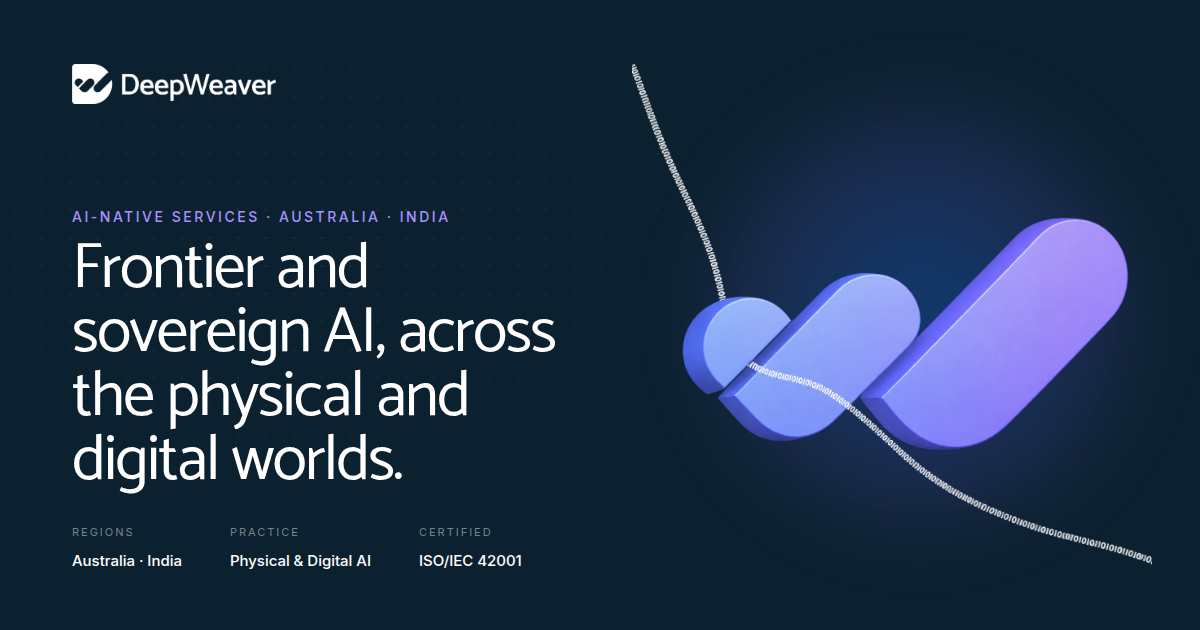
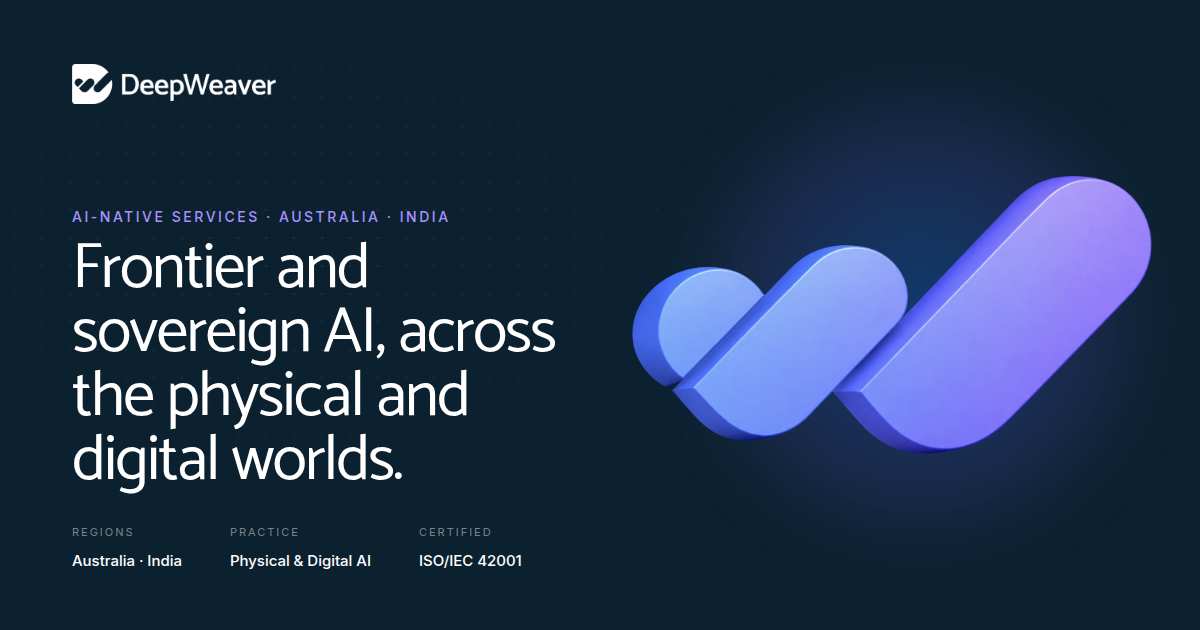
Hero: the supplied three-form render replaces the previous mark
Same composition; the image scales with its column at every width.
OG card regenerated with the same render.

Claude-Session: https://claude.ai/code/session_01GKrjJomqxogGrCNvmCvR4p

diff --git a/src/components/sections/home/hero.tsx b/src/components/sections/home/hero.tsx
@@ -54,13 +54,13 @@ export default function Hero() {
           >
             <Image
               src="/brand/hero-mark.webp"
-              alt="The DeepWeaver mark in three dimensions: three capsule forms in the brand gradient, threaded by a chain of binary digits."
-              width={1275}
-              height={1233}
+              alt="The DeepWeaver mark in three dimensions: three capsule forms in the brand gradient."
+              width={1416}
+              height={756}
               priority
               fetchPriority="high"
-              sizes="(min-width: 1280px) 580px, (min-width: 1024px) 46vw, (min-width: 640px) 440px, 82vw"
-              className="mx-auto h-auto w-full max-w-[min(82vw,360px)] sm:max-w-[440px] lg:max-w-[520px] xl:max-w-[580px]"
+              sizes="(min-width: 1280px) 640px, (min-width: 1024px) 48vw, (min-width: 640px) 480px, 86vw"
+              className="mx-auto h-auto w-full max-w-[min(86vw,380px)] sm:max-w-[480px] lg:max-w-[560px] xl:max-w-[640px]"
             />
           </motion.div>
         </div>
